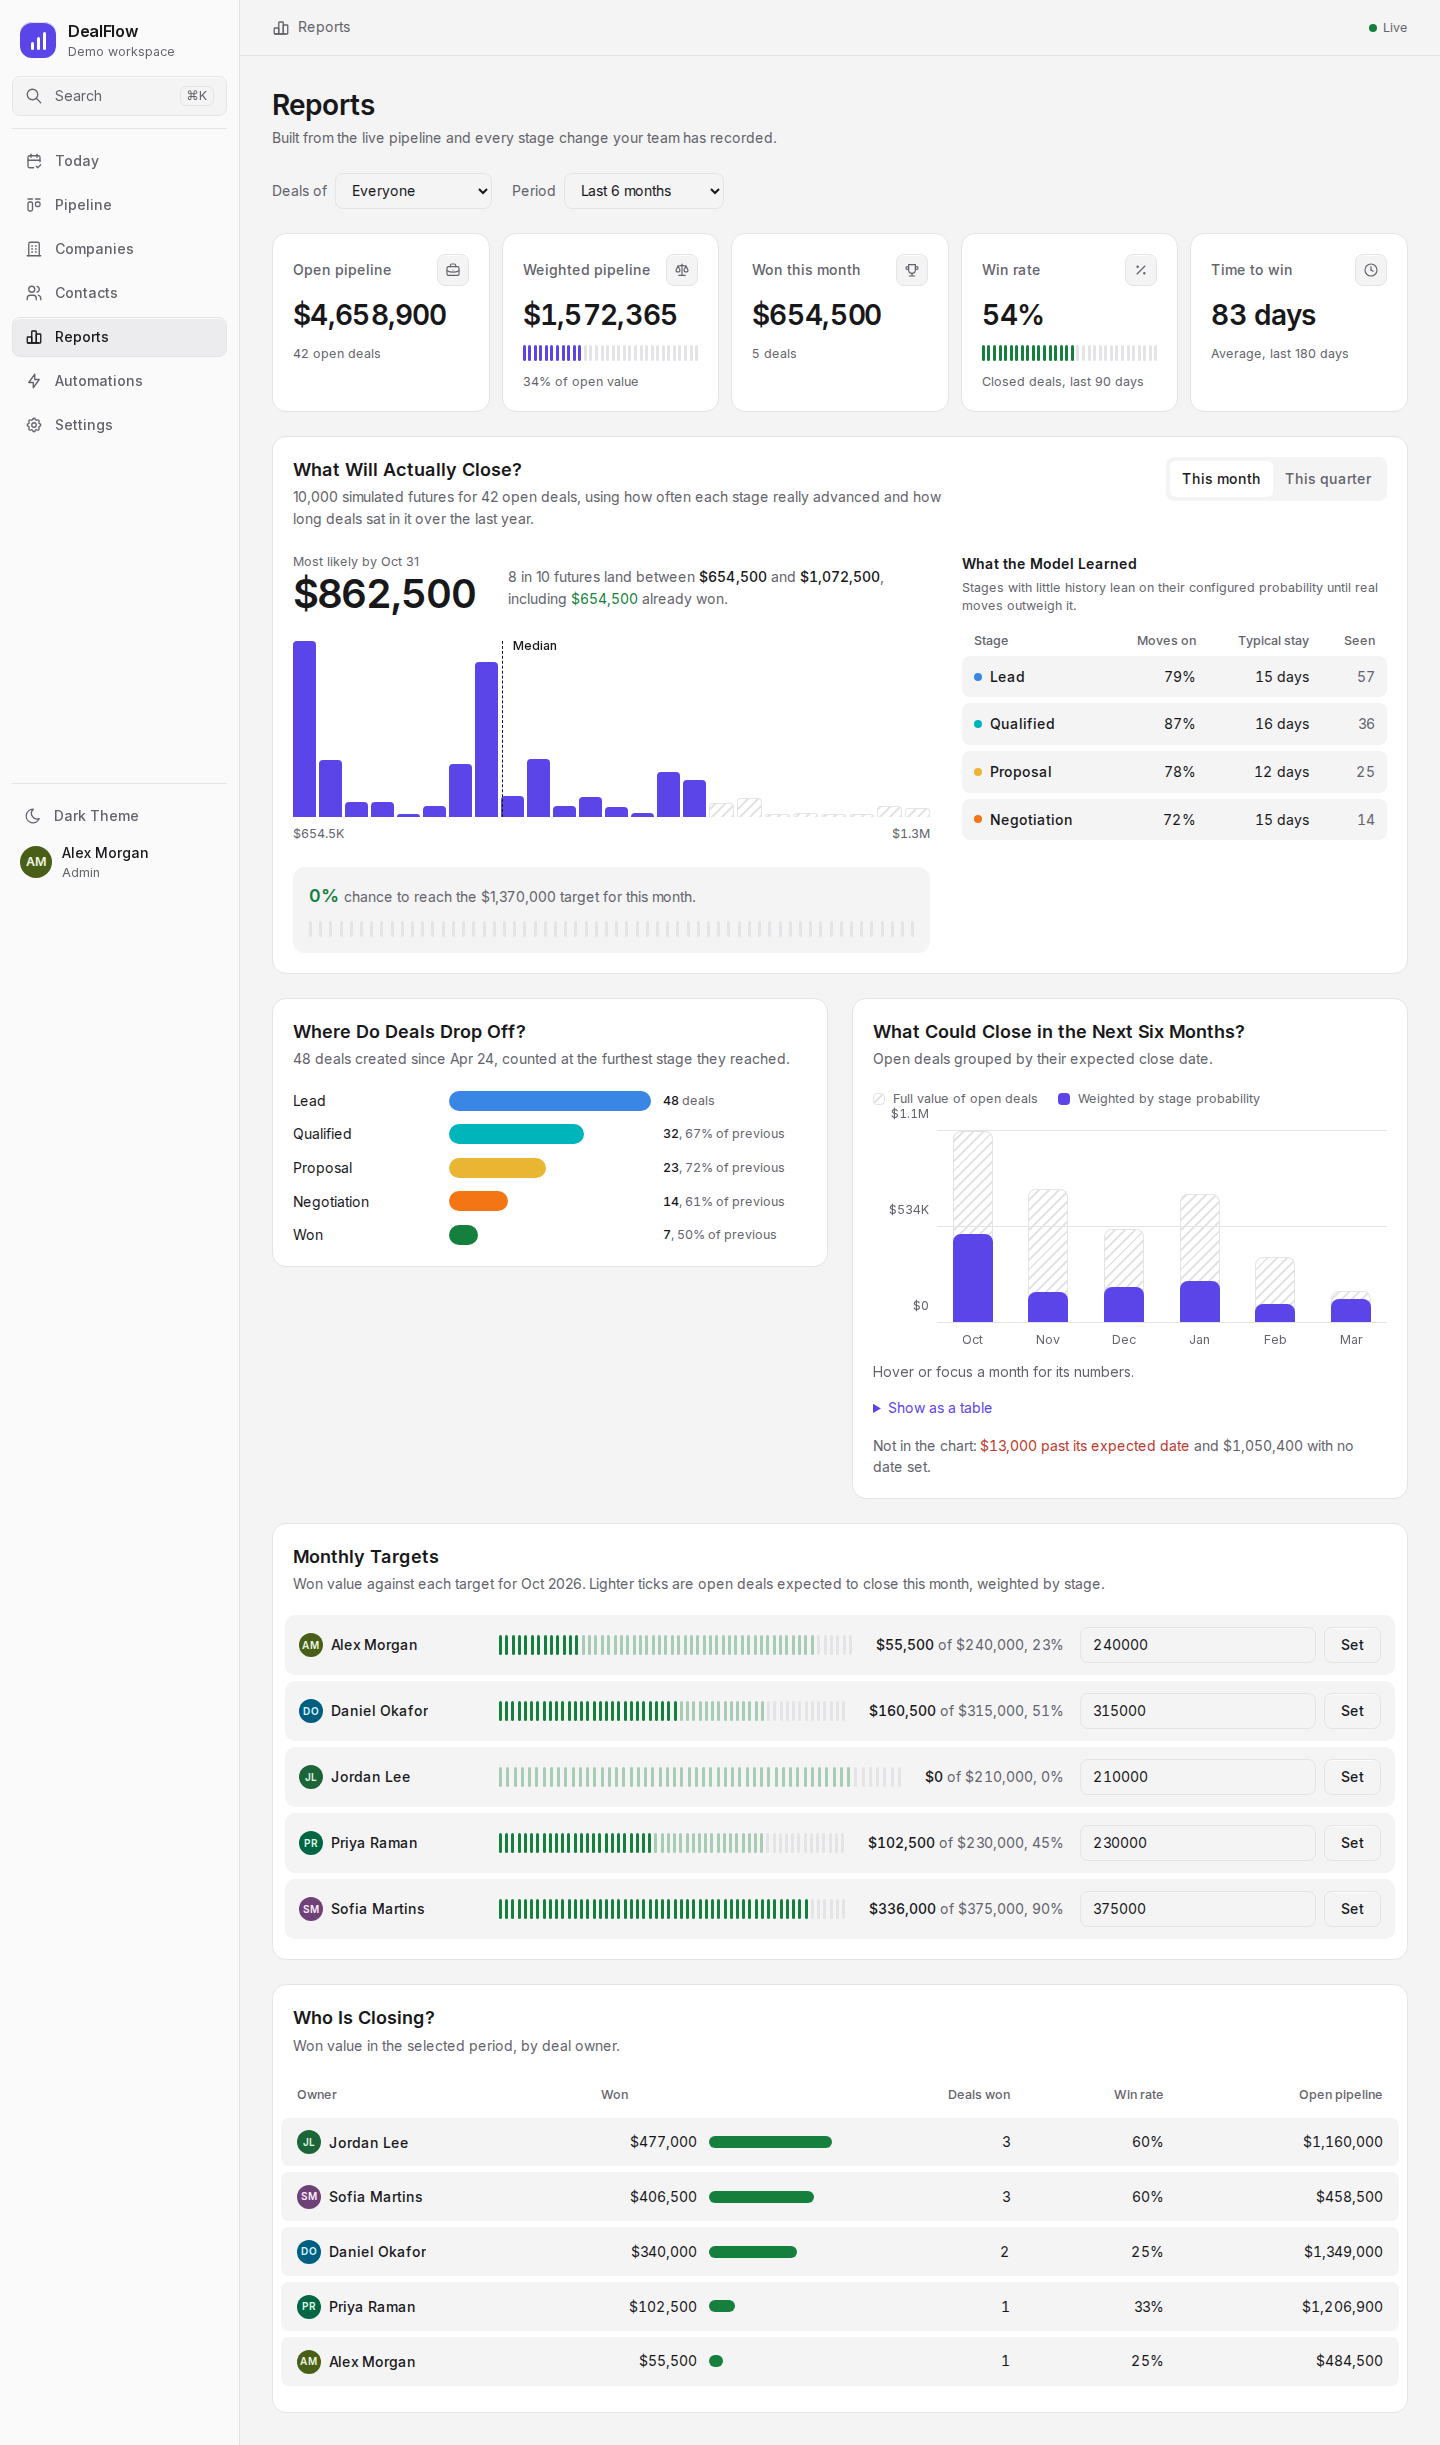
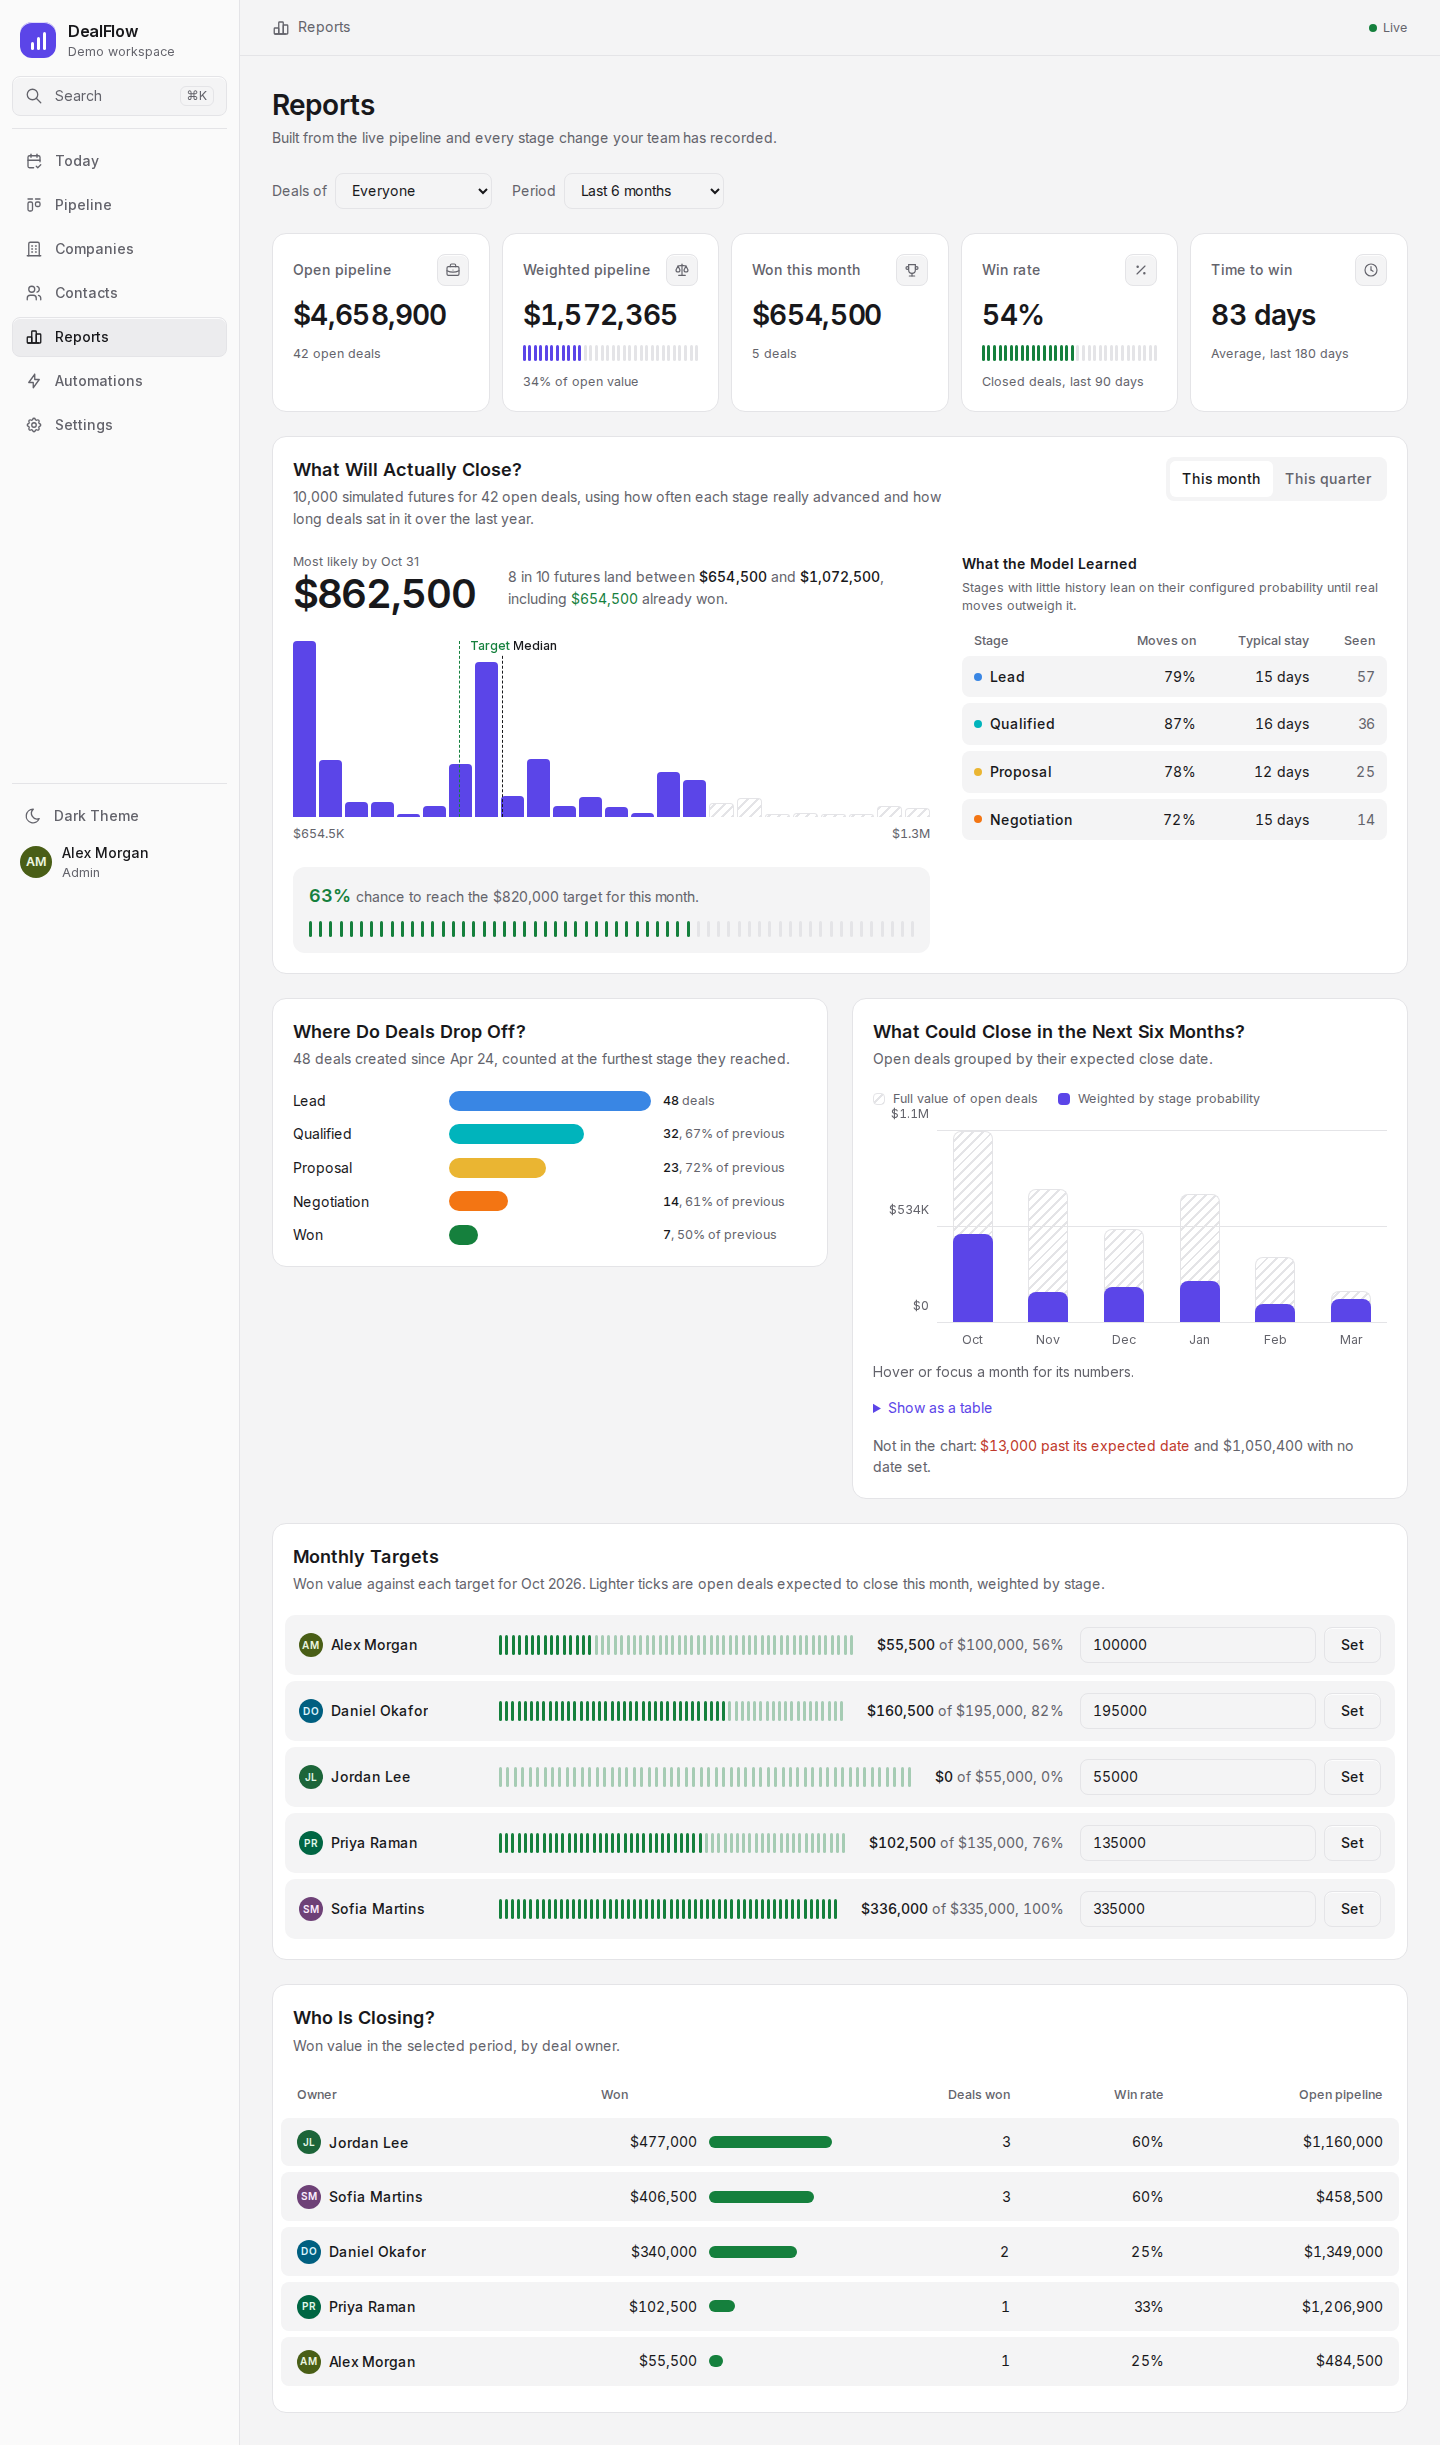
Separate the target and median labels; refresh screenshots

diff --git a/frontend/src/app/(app)/reports/simulation.tsx b/frontend/src/app/(app)/reports/simulation.tsx
@@ -159,7 +159,8 @@ function Marker({ left, label, tone }: { left: string; label: string; tone?: "wo
     >
       <span
         className={cx(
-          "text-meta bg-surface absolute -top-1 left-1.5 rounded px-1 font-medium whitespace-nowrap",
+          "text-meta bg-surface absolute left-1.5 rounded px-1 font-medium whitespace-nowrap",
+          tone === "won" ? "bottom-0" : "-top-1",
           tone === "won" ? "text-won" : "text-ink",
         )}
       >
